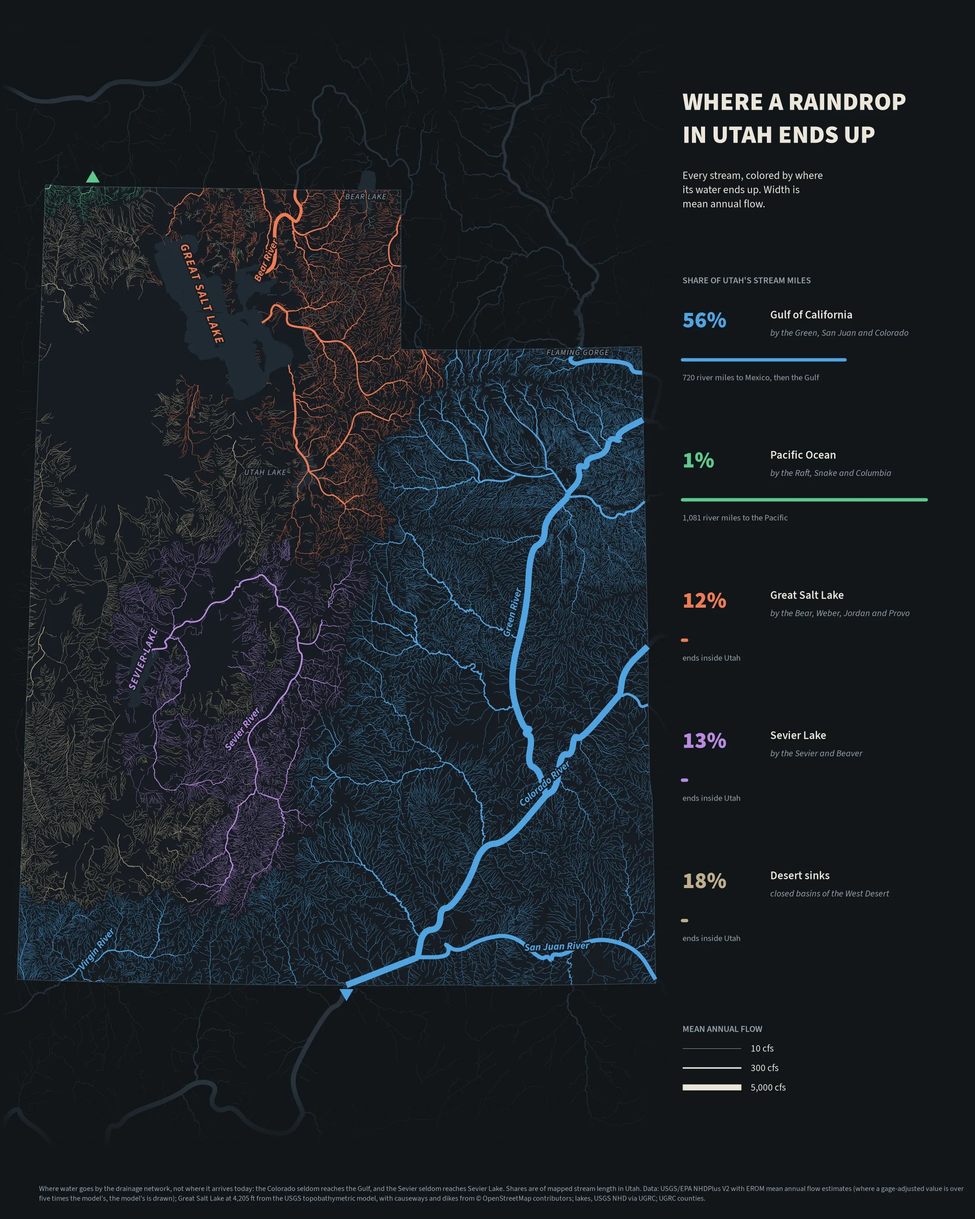
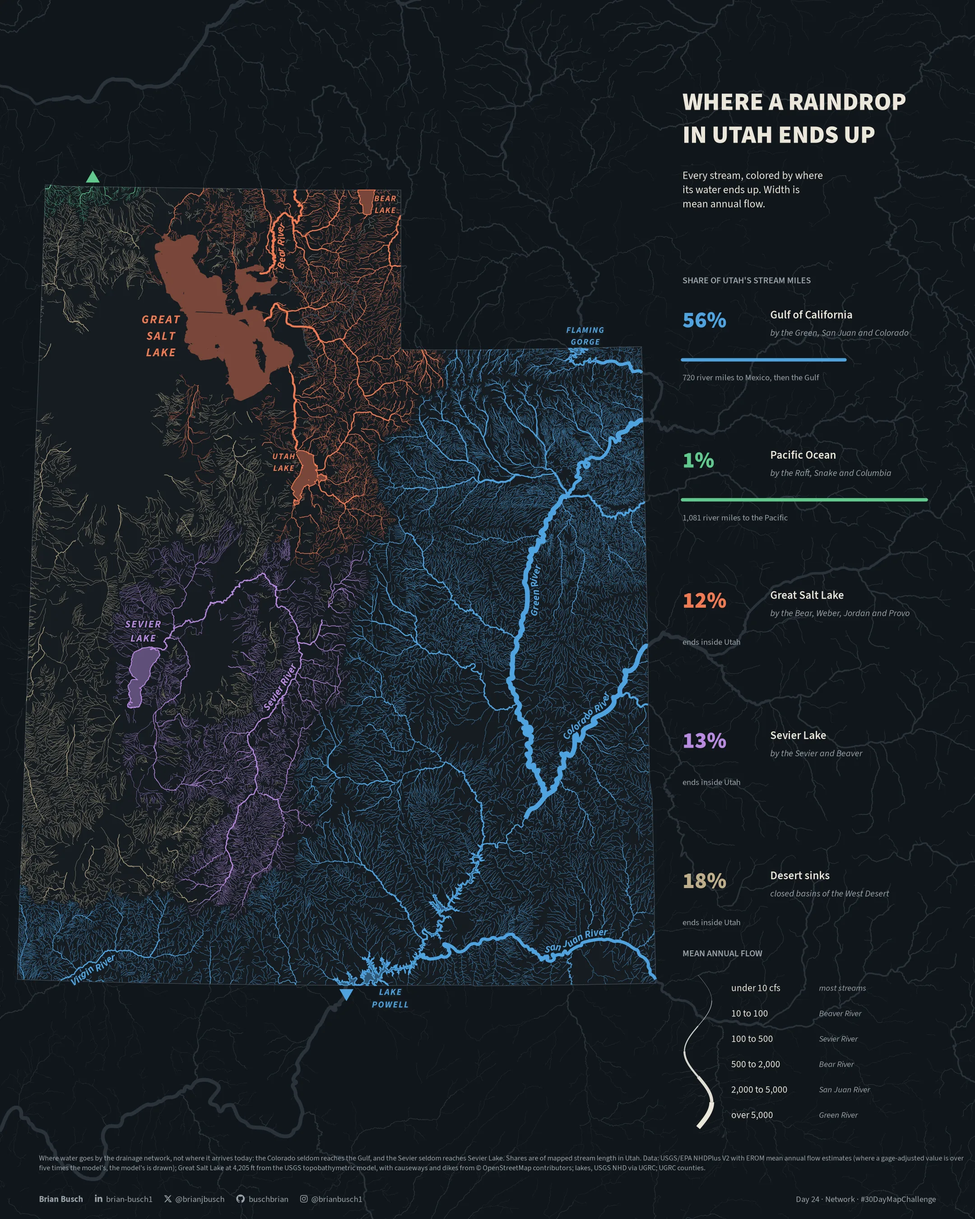
Revise the Day 24 map and its notes
Draw line width in six flow classes and simplify the wide rivers less.
Cut out the lakes at the state line, in the color of their drainage,
and stop the rivers at Lake Powell, Flaming Gorge, Utah Lake and Bear
Lake. Curve the river names beside their lines and stack the lake
names. Run the background streams under the column to the edges, use a
winding river as the key, and add the footer. Update the flow excerpt,
the alt text and the method notes to match. The figures do not change.

diff --git a/notes/where-utah-raindrops-end-up/index.html b/notes/where-utah-raindrops-end-up/index.html
@@ -75,7 +75,7 @@
           </div>
         </header>
         <figure class="post-hero-image">
-          <picture><source type="image/webp" srcset="/assets/images/r/where-utah-raindrops-end-up-480.webp 480w, /assets/images/r/where-utah-raindrops-end-up-960.webp 960w, /assets/images/r/where-utah-raindrops-end-up-1440.webp 1440w, /assets/images/r/where-utah-raindrops-end-up-2160.webp 2160w" sizes="(max-width: 720px) 90vw, 720px"><img src="/assets/images/where-utah-raindrops-end-up.jpg" alt="Dark map titled Where a raindrop in Utah ends up. Every stream in Utah has the color of the place where its water ends up, and line width shows mean annual flow. Blue streams cover the east, the south and the southwest corner. They drain to the Gulf of California by the Green, San Juan, Colorado and Virgin rivers. The Green and the Colorado are the widest lines, and the Colorado leaves the state at the south edge under a blue arrowhead. Orange streams in the north drain to Great Salt Lake, with the Bear River named. Purple streams in the center drain down the Sevier River to Sevier Lake. Pale tan streams fill the closed basins of the West Desert. A few green streams in the northwest corner drain to the Pacific, under a green arrowhead. Faint gray streams continue outside Utah. A column at right gives the share of Utah's stream miles for each place: Gulf of California 56 percent, Pacific Ocean 1 percent, Great Salt Lake 12 percent, Sevier Lake 13 percent and desert sinks 18 percent. Bars show 720 river miles to Mexico and 1,081 river miles to the Pacific. The other three end inside Utah. A key shows line widths for 10, 300 and 5,000 cubic feet per second. A note at the bottom says that the map shows the drainage network, not where water arrives today, and gives the sources." width="2160" height="2700"></picture>
+          <picture><source type="image/webp" srcset="/assets/images/r/where-utah-raindrops-end-up-480.webp 480w, /assets/images/r/where-utah-raindrops-end-up-960.webp 960w, /assets/images/r/where-utah-raindrops-end-up-1440.webp 1440w, /assets/images/r/where-utah-raindrops-end-up-2160.webp 2160w" sizes="(max-width: 720px) 90vw, 720px"><img src="/assets/images/where-utah-raindrops-end-up.jpg" alt="Dark map titled Where a raindrop in Utah ends up. Every stream in Utah has the color of the place where its water ends up, and line width shows mean annual flow. Blue streams cover the east, the south and the southwest corner. They drain to the Gulf of California by the Green, San Juan, Colorado and Virgin rivers. The Green and the Colorado are the widest lines. The Colorado and the San Juan run into Lake Powell, which is blue like them and leaves the state at the south edge under a blue arrowhead. Orange streams in the north drain to Great Salt Lake, Utah Lake and Bear Lake, which are orange too, with the Bear River named. Purple streams in the center drain down the Sevier River to Sevier Lake, which is purple. Pale tan streams fill the closed basins of the West Desert. A few green streams in the northwest corner drain to the Pacific, under a green arrowhead. The river names curve beside their lines. Faint gray streams continue outside Utah to the edges of the sheet, under the text. A column at right gives the share of Utah's stream miles for each place: Gulf of California 56 percent, Pacific Ocean 1 percent, Great Salt Lake 12 percent, Sevier Lake 13 percent and desert sinks 18 percent. Bars show 720 river miles to Mexico and 1,081 river miles to the Pacific. The other three end inside Utah. The key is a river that winds down the column and gets wider in six steps, from under 10 to over 5,000 cubic feet per second, with a river of each size named. A note at the bottom says that the map shows the drainage network, not where water arrives today, and gives the sources. My name and social handles are at the bottom." width="2160" height="2700"></picture>
           <figcaption>Where a raindrop in Utah ends up. <a href="/assets/images/where-utah-raindrops-end-up.jpg">Open the map</a>.</figcaption>
         </figure>
         <div class="post-content">
@@ -102,13 +102,13 @@
           <p>The map shows where water goes by the drainage network. It does not show where water arrives today. The Colorado seldom gets to the Gulf, and the Sevier seldom gets to Sevier Lake. People take much water out of the Bear and the Jordan before it gets to Great Salt Lake.</p>
           <h2>Line width is flow</h2>
           <p>Line width shows the mean annual flow in cubic feet per second (cfs). The flows are model estimates in NHDPlus, from a method called EROM. They are not gage records. The model uses a 1971 to 2000 base period, and it adjusts the flows to stream gages.</p>
-          <p>Line width increases with the square root of the flow. The smallest streams get a minimum width. The key shows 10, 300 and 5,000 cfs.</p>
+          <p>Line width has six steps, one for each class of flow: under 10 cfs, 10 to 100, 100 to 500, 500 to 2,000, 2,000 to 5,000, and over 5,000 cfs. 89 percent of the stream length in Utah has a flow under 10 cfs. The key names a river whose median flow is in each class, from the Beaver River to the Green River.</p>
           <p>Some adjusted flows are too large. On Pinto Creek, in the Escalante Desert, the adjusted flow is 1,771 cfs. Without the adjustment, it is 13 cfs. Where the adjusted flow is more than five times the flow without the adjustment, the map uses the flow without the adjustment. This rule changes 35 reaches.</p>
           <p>A real adjustment for diversions makes the flow smaller, not larger. On the Jordan River, the adjustment changes 1,530 cfs to 750 cfs.</p>
           <h2>The wide rivers</h2>
           <p>For each place, the script joins the reaches of one width into continuous lines. Then each wide river draws as one line, without bulges where two reaches overlap.</p>
-          <p>Wide lines had a second problem. In its canyons, the Green River turns more tightly than the width of its own line. The line folded over itself and made beads. For lines 1 point or wider, the script makes each river path between two junctions simpler, to the width of its line. Then it makes the corners round. Two small knobs remain at junctions on the Green River.</p>
-          <p>The hook at the lower San Juan River is not an error. It is the real bend of the San Juan arm of Lake Powell.</p>
+          <p>Wide lines had a second problem. In its canyons, the Green River turns more tightly than the width of its own line. The line folded over itself and made beads. For lines 1 point or wider, the script makes each river path between two junctions simpler, to about one third of the width of its line. Then it makes the corners round. Some small knobs remain on the lower Green River.</p>
+          <p>The Colorado and the San Juan stop where they enter Lake Powell. The lake has the color of the Colorado, so the blue continues to the state line. Each lake has the color of the place where its water goes.</p>
           <h2>Inside the scripts</h2>
           <p>Two Python scripts make the map.</p>
           <ul>
@@ -148,16 +148,17 @@
             <pre tabindex="0"><code>def flow_and_width(g):
     suspect = (g["qa_ma"] &gt; 0) &amp; (g["qe_ma"] &gt; FLOW_SUSPECT * g["qa_ma"])
     flow = np.where(suspect, g["qa_ma"], g["qe_ma"]).clip(min=0)
-    w = np.clip(W_PER_ROOT_CFS * np.sqrt(flow), W_MIN, W_MAX)
+    w = np.asarray(FLOW_WIDTHS)[np.searchsorted(FLOW_BREAKS, flow, side="right")]
     return flow, w, int(suspect.sum())</code></pre>
-            <figcaption>From <code>day24_raindrop.py</code>. <code>qe_ma</code> is the adjusted mean annual flow, and <code>qa_ma</code> is the flow without the adjustment. <code>FLOW_SUSPECT</code> is 5. The width is 0.075 point for each square root of 1 cfs, from 0.18 point to 5.5 points.</figcaption>
+            <figcaption>From <code>day24_raindrop.py</code>. <code>qe_ma</code> is the adjusted mean annual flow, and <code>qa_ma</code> is the flow without the adjustment. <code>FLOW_SUSPECT</code> is 5. <code>FLOW_BREAKS</code> are 10, 100, 500, 2,000 and 5,000 cfs. <code>FLOW_WIDTHS</code> has one width for each class, from 0.2 point to 4.2 points. A flow on a break goes in the class above it.</figcaption>
           </figure>
           <h2>Method</h2>
           <ul>
             <li>The streams are NHDPlus Version 2 at medium resolution (1:100,000), from USGS and the U.S. Environmental Protection Agency (EPA). The USGS water data GeoServer serves the data.</li>
             <li>I left out canals, ditches, pipelines and minor divergences. A minor divergence is the smaller branch where a stream splits. These steps make the map show drainage, not plumbing.</li>
-            <li>I also left out the paths across Great Salt Lake and Sevier Lake, because they drew as fans. Paths through reservoirs, such as Lake Powell, stay on the map.</li>
-            <li>The map shows 50,756 reaches inside Utah. The shares are of their length inside the state line.</li>
+            <li>I also left out the paths across Great Salt Lake and Sevier Lake, because they drew as fans.</li>
+            <li>The map does not draw the paths through Lake Powell, Flaming Gorge, Utah Lake and Bear Lake, so the lakes show. The shares and the river miles still include these paths. The lakes show only the part inside Utah.</li>
+            <li>The shares use 50,756 reaches inside Utah. The shares are of their length inside the state line.</li>
             <li>The river miles after Utah come from the NHDPlus path length at the largest reach that crosses the state line.</li>
             <li>Great Salt Lake is at 4,205 ft, from the USGS topobathymetric model, with causeways and dikes from OpenStreetMap. The other lakes are USGS NHD lakes from the Utah Geospatial Resource Center (UGRC). The state line comes from the UGRC county boundaries.</li>
             <li>The faint streams outside Utah are only the larger NHDPlus streams, of stream order 3 and higher.</li>
